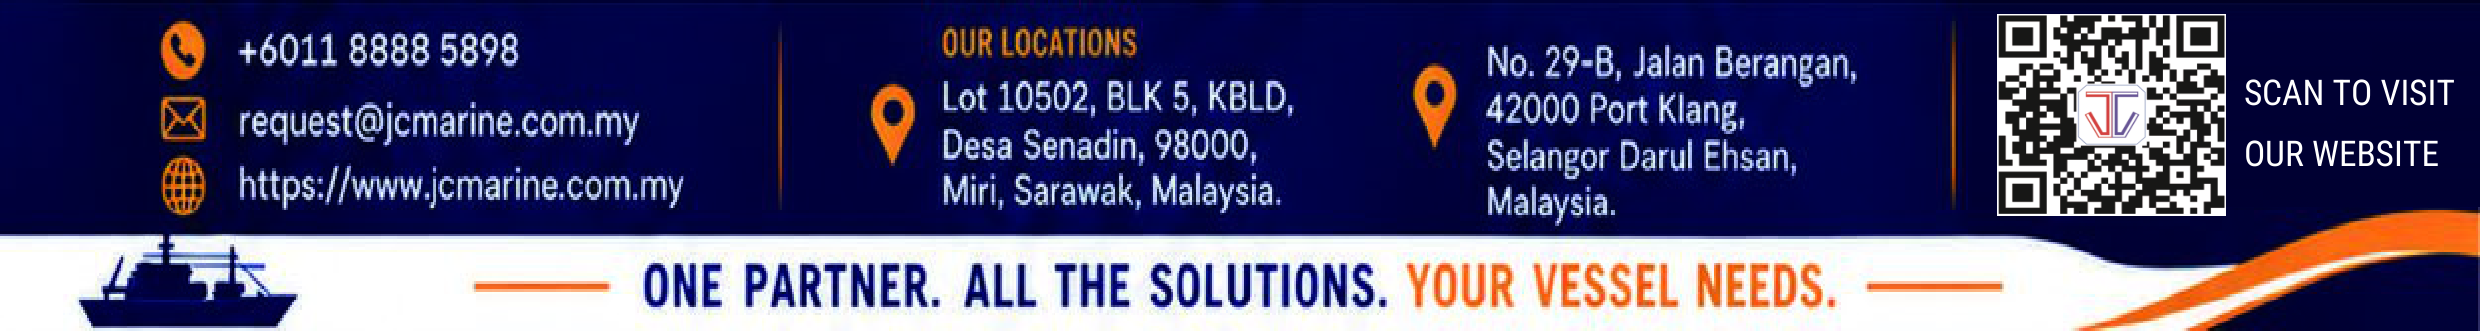
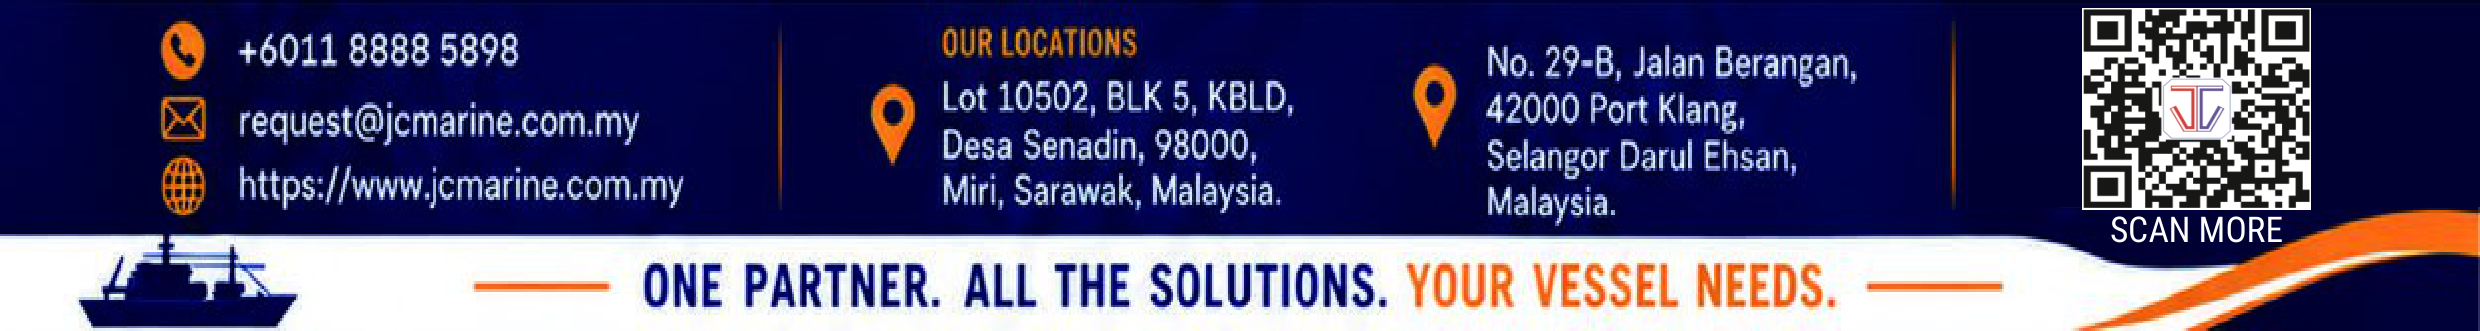
Place SCAN MORE caption directly below enlarged QR

Changed region(s): [[0.8073, 0.0, 0.9935, 0.7251]]

diff --git a/deliverables/README.md b/deliverables/README.md
@@ -18,4 +18,4 @@
 - 参考原稿的联系文字、电话、邮箱、网站、定位和船形图标、橙色分隔线与底部标语均直接保留原稿图像样式，未重新设计图标。原稿为位图素材，这部分文字及图标不是可逐对象编辑的矢量。
 - 联系文字按参考图的纵向比例呈现，比此前自行排版的文字更大。
 - 二维码以用户 QR_original.pdf 独立 PDF 对象嵌入，宽 20 mm，高 17.87 mm，保持原文件页面比例；未裁切原码自身留白，去掉此前额外的白色外框。
-- 二维码旁文字放大并调整位置。300 dpi、600 dpi PNG 均已解码为 https://www.jcmarine.com.my/ 。未进行印刷后手机实扫。
+- 二维码正下方居中放置 SCAN MORE，去掉原先右侧扫码文字。300 dpi、600 dpi PNG 均已解码为 https://www.jcmarine.com.my/ 。未进行印刷后手机实扫。
